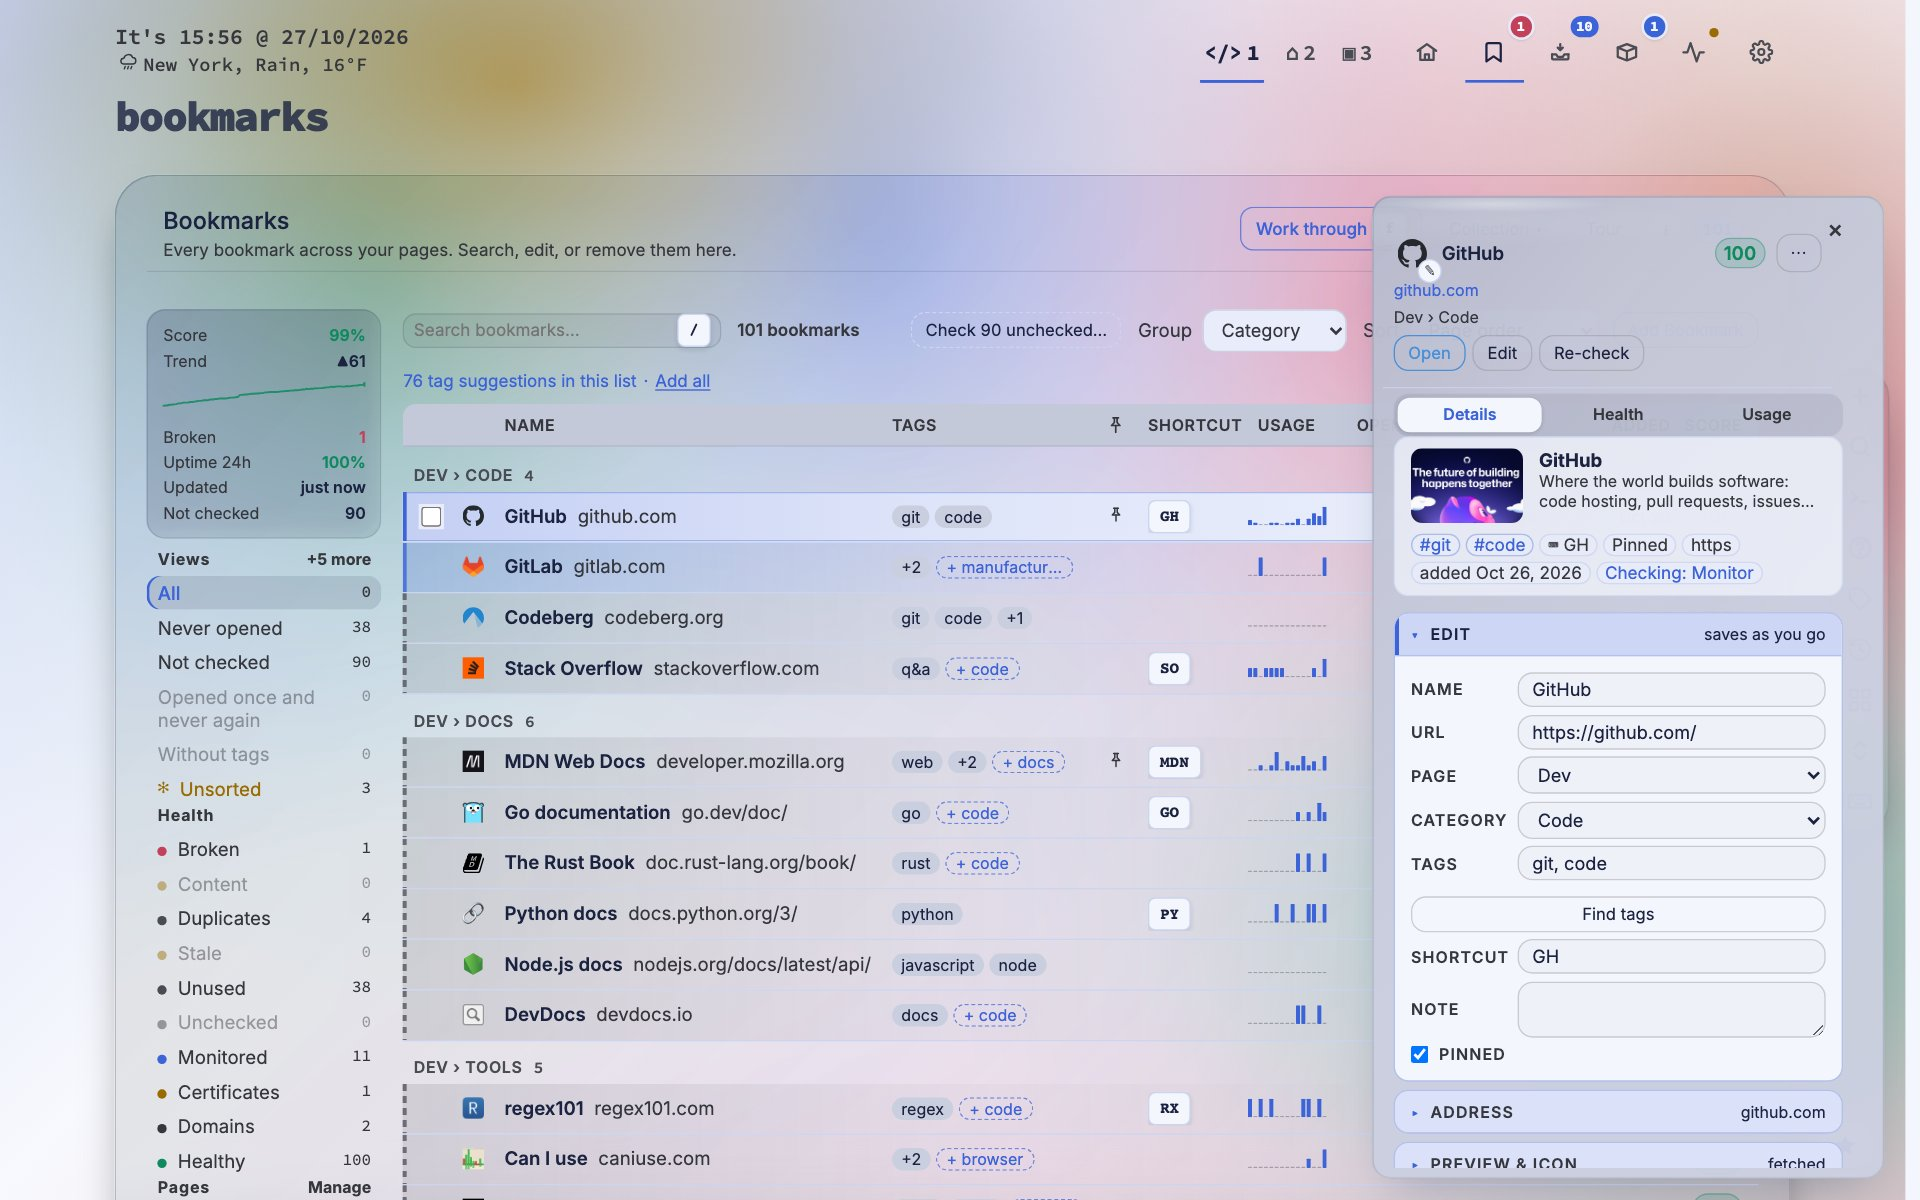
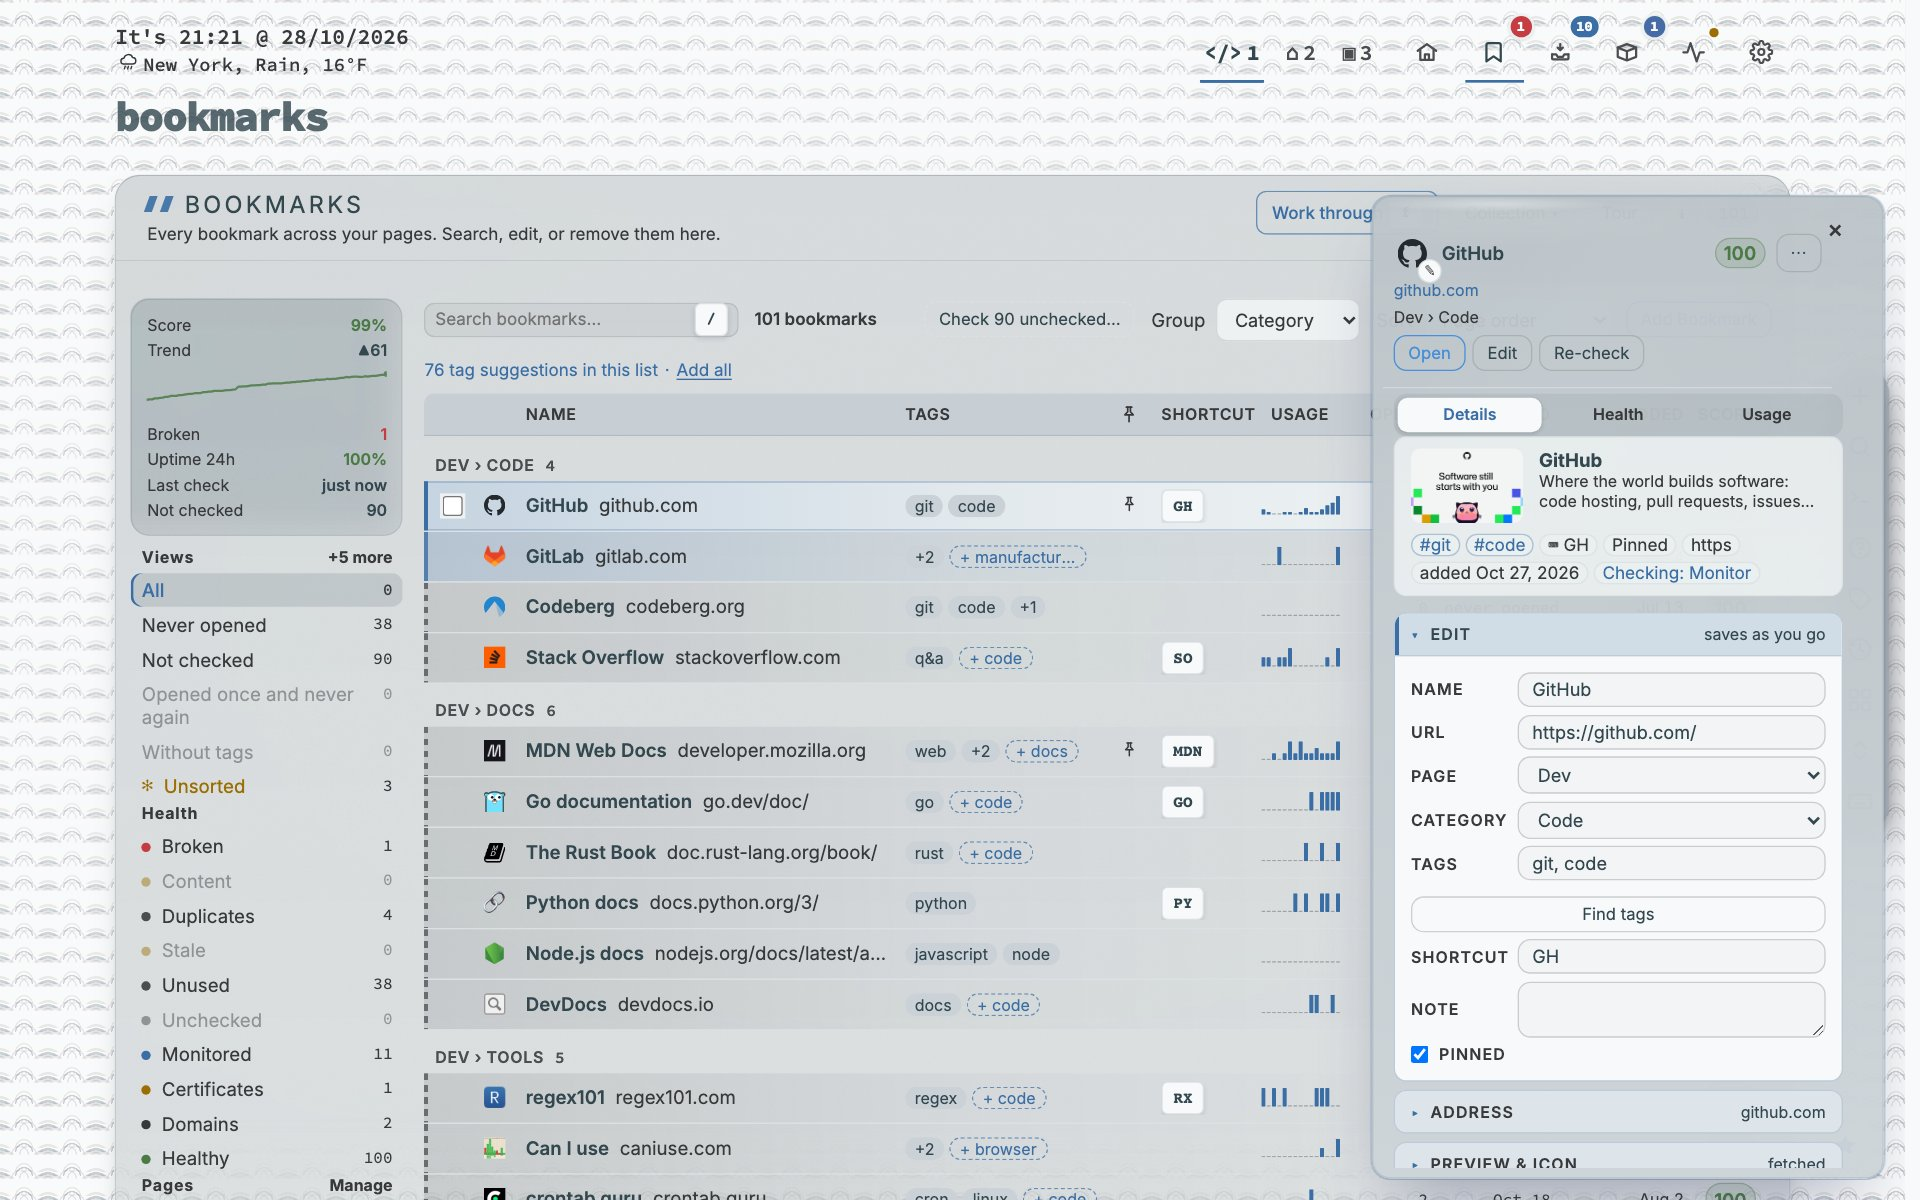
README: dashboard and bookmarks shots in Oceanic Steel

diff --git a/tests/readme-screenshots.spec.js b/tests/readme-screenshots.spec.js
@@ -219,7 +219,7 @@ function pic(name, theme, scene, { patch = '', tweak = null, viewport = null } =
     });
 }
 
-pic('dashboard', 'aurora-glass-dark', async (page) => {
+pic('dashboard', 'oceanic-steel-dark', async (page) => {
     await setup(page);
     await openDashboard(page);
     await full(page, 'nextdash-dashboard.jpg');
@@ -231,7 +231,7 @@ pic('dashboard-homelab', 'terminal-amber-dark', async (page) => {
     await full(page, 'nextdash-dashboard-homelab.jpg');
 });
 
-pic('bookmarks-view', 'aurora-glass-light', async (page) => {
+pic('bookmarks-view', 'oceanic-steel-light', async (page) => {
     await setup(page);
     await openBookmarksView(page);
     await page.locator('#config-bm-list .config-bm-row', { hasText: 'GitHub' }).first().click();

diff --git a/README.md b/README.md
@@ -13,7 +13,7 @@ My bookmark bar had become a graveyard, so I built a self-hosted dashboard that 
 Run it on any machine or container, open it in your browser, organise bookmarks across pages, and reach everything from the keyboard. Beside your bookmarks, **widgets** show what is going on: uptime of the services you watch, what waits in the inbox, which certificate runs out, the weather, your calendar, your feeds, your machines — and any self-hosted service that answers with JSON.
 
 <p align="center">
-  <img src="screenshots/nextdash-dashboard.jpg" alt="The nextDash dashboard in Aurora Glass: categories in columns with live response times, and widgets for health, uptime, weather, the inbox and notes" width="100%" />
+  <img src="screenshots/nextdash-dashboard.jpg" alt="The nextDash dashboard in Oceanic Steel: categories in columns with live response times, and widgets for health, uptime, weather, the inbox and notes" width="100%" />
 </p>
 
 🎨 **384 themes and a theme studio.** 192 theme families, each with a light and a dark half, drawn from twelve materials — lacquer, glass, frost, aurora, neon, velvet, enamel, brushed metal, carbon, paper, terminal and ink — and from three collections: eight neutrals, the Looks and ThinkDashboard Classic. **Aurora Glass** is the default, and every material draws its own surface, category header and widget header, as a **signature** or in the flat **Classic** way. **`Shift + A`** opens the theme studio beside your dashboard and changes the real page as you go: the theme, 75 backdrops with a quiet centre behind the bookmarks, depth, glow and card glass, the category headers, the type and the contrast — or one of twelve ready-made looks that set them all at once. **Compare** shows what you had, 🎲 tries something at random, and nothing is saved until **Apply**. Search by name or material, keep up to 24 favourites, follow your system's light and dark mode, or recolour any theme and build your own in the theme editor. *[Manual: The new look](MANUAL.md#16a-the-new-look)* · *[Manual: Appearance](MANUAL.md#16-appearance)*
@@ -75,12 +75,12 @@ nextDash is a bookmark dashboard that also knows your Docker host. The link to S
     <td width="50%" align="center" valign="top">
       <img src="screenshots/nextdash-dashboard.jpg" alt="Dashboard" width="100%" />
       <br />
-      <sub><b>Dashboard</b> <i>(Aurora Glass)</i> — Categories in columns with a live response time on every checked link, and widgets between them: health, uptime with a heartbeat per site, the weather with its forecast, the inbox and a note. The header is one row: clock and weather, page numbers, and the views with their badges.</sub>
+      <sub><b>Dashboard</b> <i>(Oceanic Steel)</i> — Categories in columns with a live response time on every checked link, and widgets between them: health, uptime with a heartbeat per site, the weather with its forecast, the inbox and a note. The header is one row: clock and weather, page numbers, and the views with their badges.</sub>
     </td>
     <td width="50%" align="center" valign="top">
       <img src="screenshots/nextdash-bookmarks-view.jpg" alt="Bookmarks view" width="100%" />
       <br />
-      <sub><b>Bookmarks view</b> <i>(Aurora Glass, light)</i> — The whole collection in one place: a rail with the health score, views, health filters, pages and categories; one row per bookmark with its tags, shortcut, a month of use and when it was last opened; a side panel with Details, Health and Usage that saves as you type.</sub>
+      <sub><b>Bookmarks view</b> <i>(Oceanic Steel, light)</i> — The whole collection in one place: a rail with the health score, views, health filters, pages and categories; one row per bookmark with its tags, shortcut, a month of use and when it was last opened; a side panel with Details, Health and Usage that saves as you type.</sub>
     </td>
   </tr>
   <tr>
